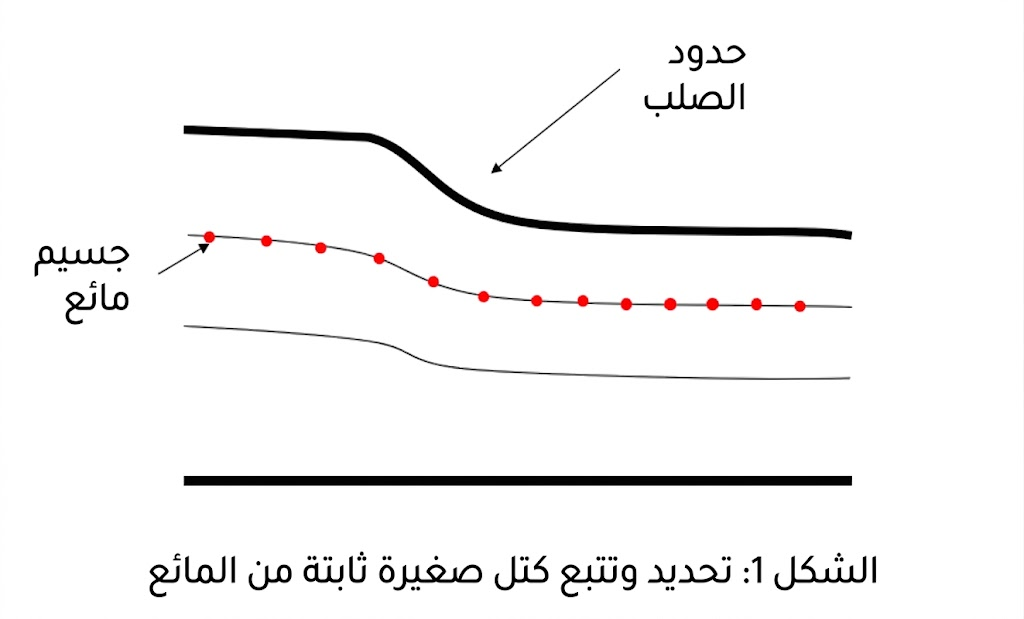
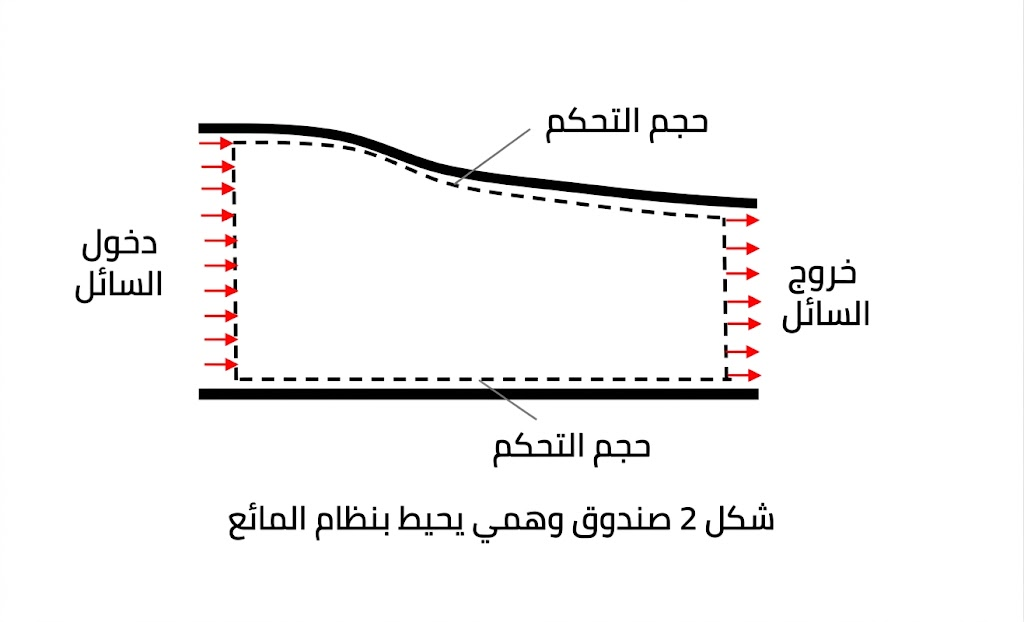
Add files via upload

diff --git a/docs/Hydrodynamics/طريقة أويلر 3d8dec70289580738fdaebb3194fcd16.md b/docs/Hydrodynamics/طريقة أويلر 3d8dec70289580738fdaebb3194fcd16.md
@@ -1,0 +1,12 @@
+# طريقة أويلر
+
+Status: المبدأ
+Multi-select: Hydrodynamics
+
+كيفية وصف الإزاحة والسرعة والتسارع لأجزاء المائع.
+
+اتخاذ صندوق وهمي حول نظام سائل من الممكن أن يكون كبير، أو صغير، أو ثابت، أو متحرك بسرعه ثابته.
+
+![image.png](image.png)
+
+يرصد تدفق الموائع عبر حدّ وهمي (حجم تحكم) بدلاً من تتبع جسيمات محددة. ونظرًا لأن الكتلة تدخل وتخرج باستمرار من حجم التحكم، فإن تطبيق القوانين الفيزيائية الأساسية المصمَّمة لكتل ثابتة يتطلب تحويلًا رياضيًا.
